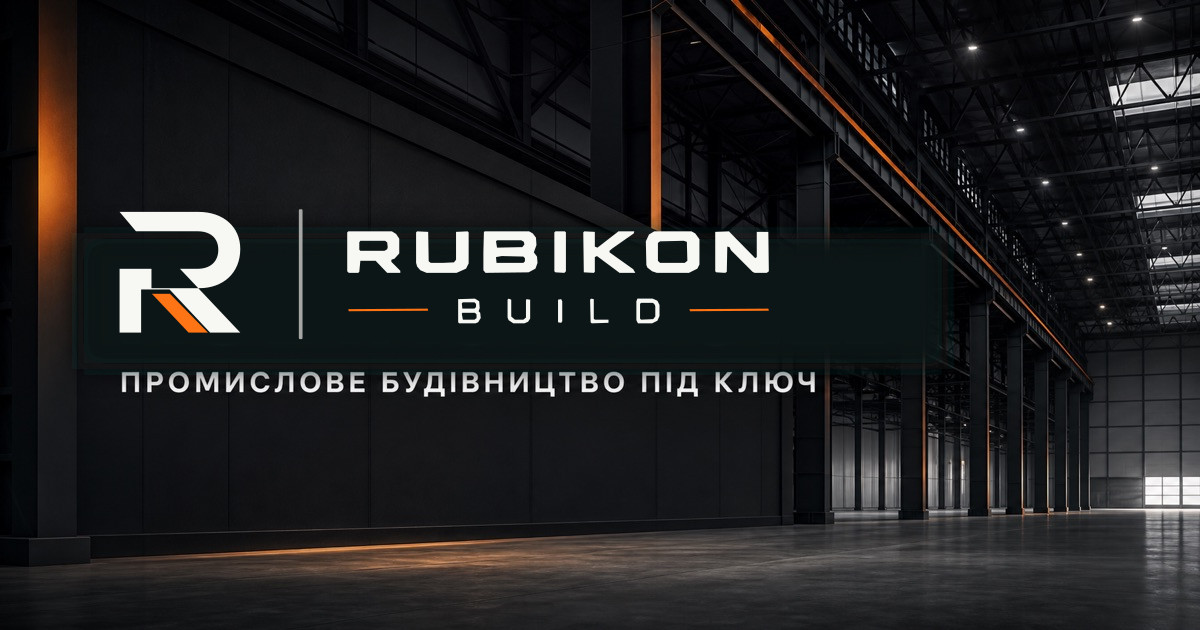
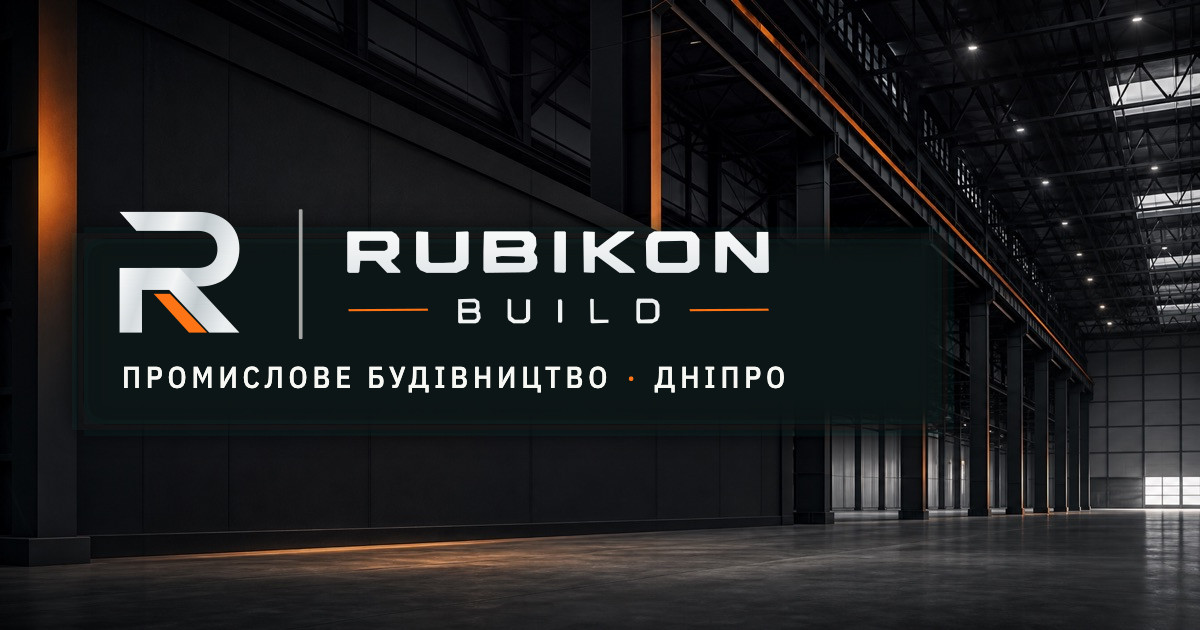
content(og): превʼю посилання без «ПІД КЛЮЧ» — «Промислове будівництво · Дніпро» (PDO-32) (#213)
* content(og): превʼю посилання без «ПІД КЛЮЧ» — «Промислове будівництво · Дніпро» (PDO-32)

The baked-in tagline of og-social-background.jpg made an unlimited «під ключ»
claim (PUBLIC_CLAIM_MATRIX: not without limits). The --social band now covers
it and a committed tagline layer (render-og-tagline.mjs, the site's own IBM Plex
Sans Condensed Medium, no system font) goes under the logo in the old place.
1200x630 JPEG, 141 KB; logo, band and background unchanged; ?v=rubikon-03 so
messengers refetch. Used by HOME and the privacy page only.
Owner's decision 20.10: OD-PX-13, variant A.

* docs(handoffs): PDO-32 — OG-превʼю без «ПІД КЛЮЧ»

---------

Changed region(s): [[0.0925, 0.573, 0.7092, 0.6635], [0.0925, 0.3317, 0.2158, 0.5429]]

diff --git a/app/layout.tsx b/app/layout.tsx
@@ -63,7 +63,7 @@ export const metadata: Metadata = {
     url: '/',
     images: [
       {
-        url: '/og.jpg?v=rubikon-02',
+        url: '/og.jpg?v=rubikon-03',
         width: 1200,
         height: 630,
         alt: `${company.name} — промислове будівництво у Дніпрі`,
@@ -74,7 +74,7 @@ export const metadata: Metadata = {
     card: 'summary_large_image',
     title: `Промислове будівництво у Дніпрі | ${company.name}`,
     description: company.description,
-    images: ['/og.jpg?v=rubikon-02'],
+    images: ['/og.jpg?v=rubikon-03'],
   },
 };
 
@@ -104,7 +104,7 @@ const organizationData = {
     width: 512,
     height: 512,
   },
-  image: `${company.siteUrl}/og.jpg?v=rubikon-02`,
+  image: `${company.siteUrl}/og.jpg?v=rubikon-03`,
   telephone: company.phone.international,
   email: company.email,
   description: company.description,

diff --git a/app/polityka-konfidentsiinosti/page.tsx b/app/polityka-konfidentsiinosti/page.tsx
@@ -9,7 +9,7 @@ export const metadata = createPageMetadata({
   path: siteRoutes.privacy,
   title: brandedTitle('Політика конфіденційності'),
   description: `Інформація про обробку даних і використання Google Analytics на сайті ${company.name}.`,
-  image: '/og.jpg?v=rubikon-02',
+  image: '/og.jpg?v=rubikon-03',
   imageAlt: `${company.name} — промислове будівництво у Дніпрі`,
 });
 

diff --git a/docs/handoffs/2026-10-20-og-image-tagline.md b/docs/handoffs/2026-10-20-og-image-tagline.md
@@ -1,0 +1,53 @@
+# Handoff · OG-превʼю без «ПІД КЛЮЧ»: «Промислове будівництво · Дніпро» (PDO-32)
+
+| | |
+|---|---|
+| Дата | 2026-10-20 |
+| Виконавець | Claude Code |
+| Підстава | Рішення власника 20.10: **OD-PX-13, варіант A** («Промислове будівництво · Дніпро»). Premium Experience Review 18.10, PDO-32, крок W1-10 |
+| Рев'ю | Незалежне — очікується: ChatGPT (через GitHub). Рішення — Дмитро |
+| PR | Draft. **Merge і deploy не виконувались і не дозволені** без окремого OK Дмитра (DEC-30) |
+| Гілка / base | `content/og-image` від `main` `d4b11c0` |
+| Коміти | `447067b` зображення, генератор, версія · цей handoff |
+| Змінено | `public/og.jpg`, `public/og.png`, `public/brand/og-tagline-uk.png` (новий шар), `scripts/render-og-tagline.mjs` (новий), `scripts/generate-brand-assets.mjs` (смуга + шар), `app/layout.tsx` і `app/polityka-konfidentsiinosti/page.tsx` (`?v=rubikon-02` → `rubikon-03`) |
+| Не змінено | Фон `og-social-background.jpg`, логотип і його місце, решта брендових ассетів (байт у байт), OG-зображення інших сторінок, тексти сайту, метадані крім версії, еталони, workflows |
+
+## Проблема
+
+Превʼю посилання на HOME і політику конфіденційності (`/og.jpg`) каже «ПРОМИСЛОВЕ БУДІВНИЦТВО ПІД КЛЮЧ». Матриця публічних тверджень дозволяє «під ключ» лише з межами («у погодженому обсязі; проєктування, дозволи й спеціальні системи — окремо»), а превʼю — перше, що бачить людина, якій переслали посилання.
+
+**Причина.** Теза вшита в сам фон `public/brand/og-social-background.jpg` (разом зі старим словесним знаком). Генератор `--social` прикривав знак м'якою графітовою смугою й ставив логотип, а теза під смугою лишалася видимою. Чистого оригіналу фону в репозиторії немає (файл незмінний з #78/#90).
+
+## Зміна
+
+- `generate-brand-assets.mjs --social`: смуга 136 → 197 px заввишки, тож прикриває й стару тезу (вона стояла на y 372–395, x 122–814 з 1200×630); поверх логотипа накладається шар тези.
+- `render-og-tagline.mjs`: рендерить шар `og-tagline-uk.png` (1200×630, прозорий) шрифтом самого сайту — IBM Plex Sans Condensed Medium з `app/fonts`, вбудованим у сторінку рендера. Результат закомічено, тож збірка бренду, як і раніше, не залежить від шрифтів машини. Текст: «ПРОМИСЛОВЕ БУДІВНИЦТВО · ДНІПРО», 30 px, трекінг 0,16 em, на місці старої тези; розділювач — помаранчевий з логотипа (`#FF7415`), слова — ivory логотипа (`#F7F7F4`).
+- `?v=rubikon-03` у трьох місцях `layout.tsx` і в політиці, щоб месенджери перечитали превʼю.
+
+![До (?v=rubikon-02) і після](media/og-image-tagline/og-before-after.jpg)
+
+## Перевірка
+
+- Після `node scripts/generate-brand-assets.mjs --social` змінились лише `public/og.jpg` і `public/og.png`; решта згенерованих логотипів та іконок — байт у байт ті самі.
+- `og.jpg`: 1200×630, JPEG, 141 641 Б (було 141 979 Б). Пікселі тексту: стару тезу прибрано, нова стоїть у рядках y 366–392.
+- Production build гілки: `og:image` на 10 сторінках — `/og.jpg?v=rubikon-03` на HOME і політиці; інші 8 сторінок мають власні зображення (не змінювались). Файл віддається з `image/jpeg`.
+- `tsc --noEmit`, `eslint` змінених файлів — чисто. Тестів, що посилаються на `og.jpg` або `rubikon-02`, немає.
+- Звірка з `PUBLIC_CLAIM_MATRIX`: «промислове будівництво» — категорія з H1 сайту; «Дніпро» — місто компанії, як у title сайту («…у Дніпрі»); нових тверджень немає.
+
+## Ризики й відкат
+
+- Ризик L. Месенджери кешують превʼю — тому новий `?v=`. Перевірка вами: превʼю в Telegram і Viber після деплою.
+- Квадратна мініатюра (деякі месенджери обрізають центр) зрізає знак «R» і початок тези — **так само, як до зміни**; композиція не змінювалась. Окреме питання.
+
+![Квадратний центральний обріз після зміни](media/og-image-tagline/og-square-crop-after.jpg)
+
+- Відкат: revert цього PR (повертає старий файл і `?v=rubikon-02`).
+- EN: текст вшито в зображення. Для EN — окремий шар (`og-tagline-en.png`) і окремий файл превʼю тим самим генератором; тут не робилось.
+
+## Поза обсягом (знахідка для окремої задачі)
+
+OG-зображення інших 8 сторінок (`/media/concepts/direction-*-v2.jpg`, `/media/about-industrial-concept.jpg`, WebP на /napryamky): портретні або 3:2 замість 1,91:1, 350–733 КБ, без мітки «Ілюстрація»; WebP частина месенджерів не показує. Цей PR їх не чіпає.
+
+## Пропоновані оновлення control (лише після OK Дмитра)
+
+- `DECISIONS.md`: зафіксувати OD-PX-13 = A (20.10).
